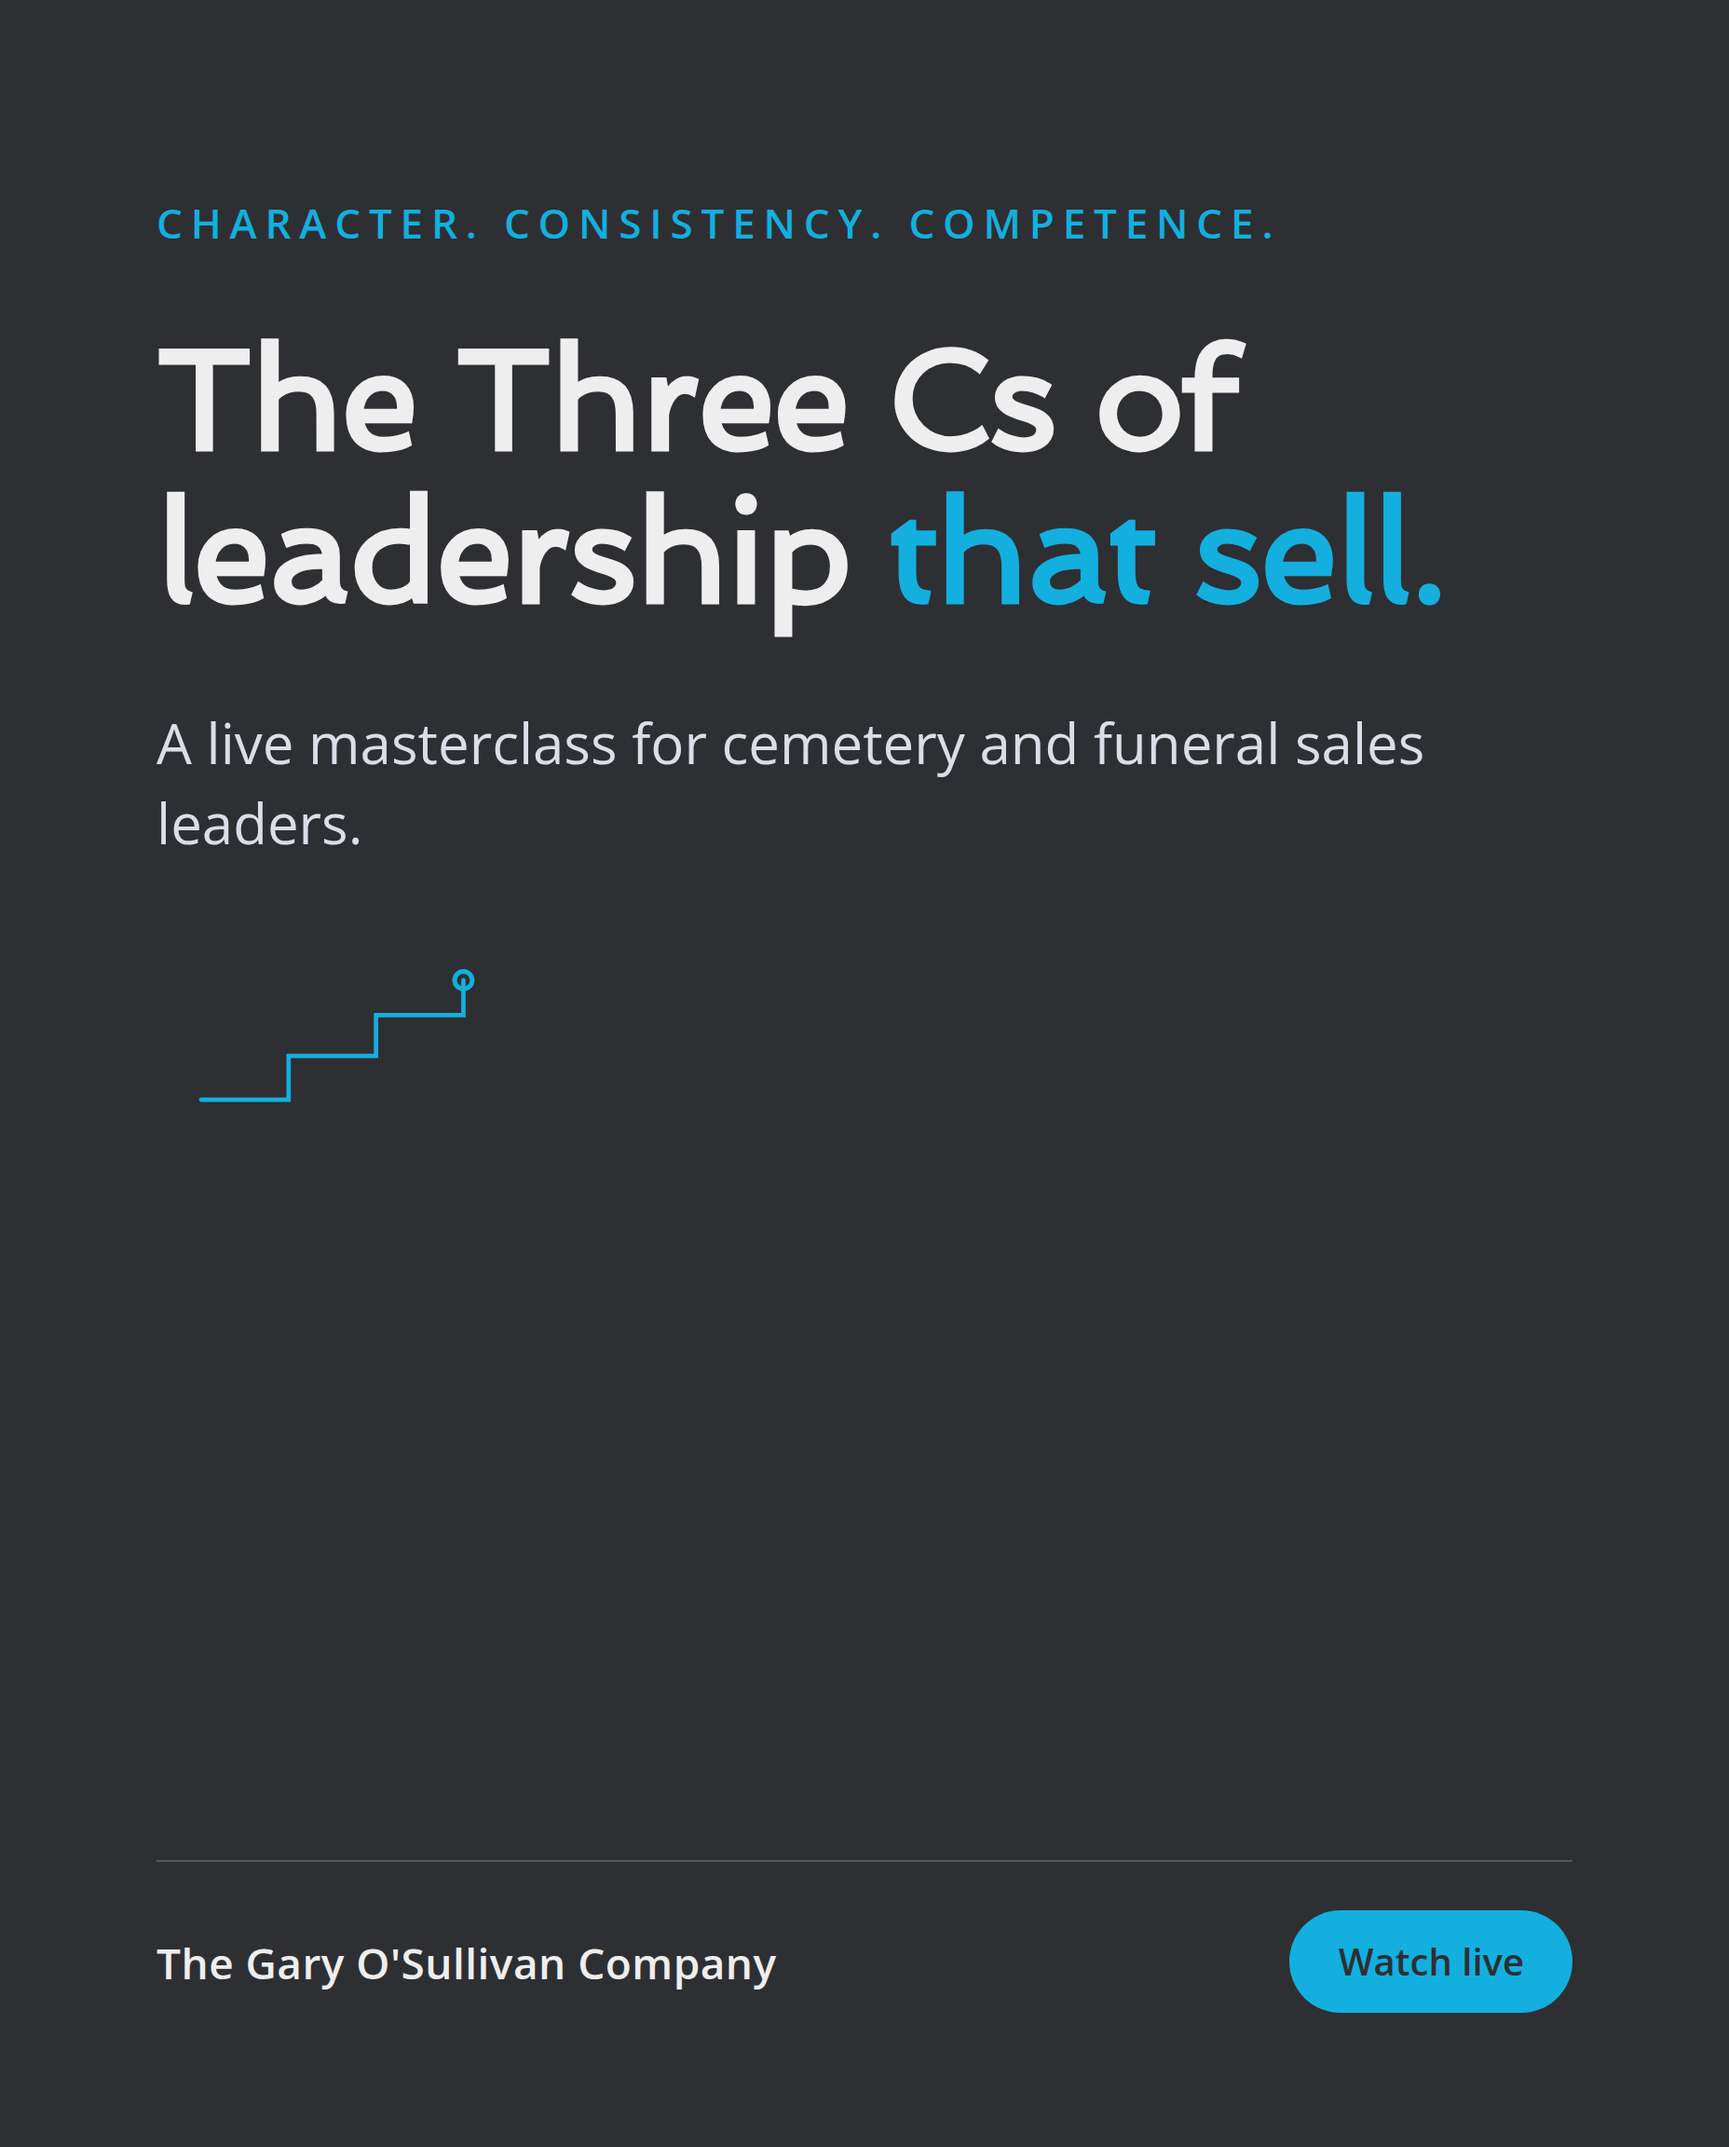
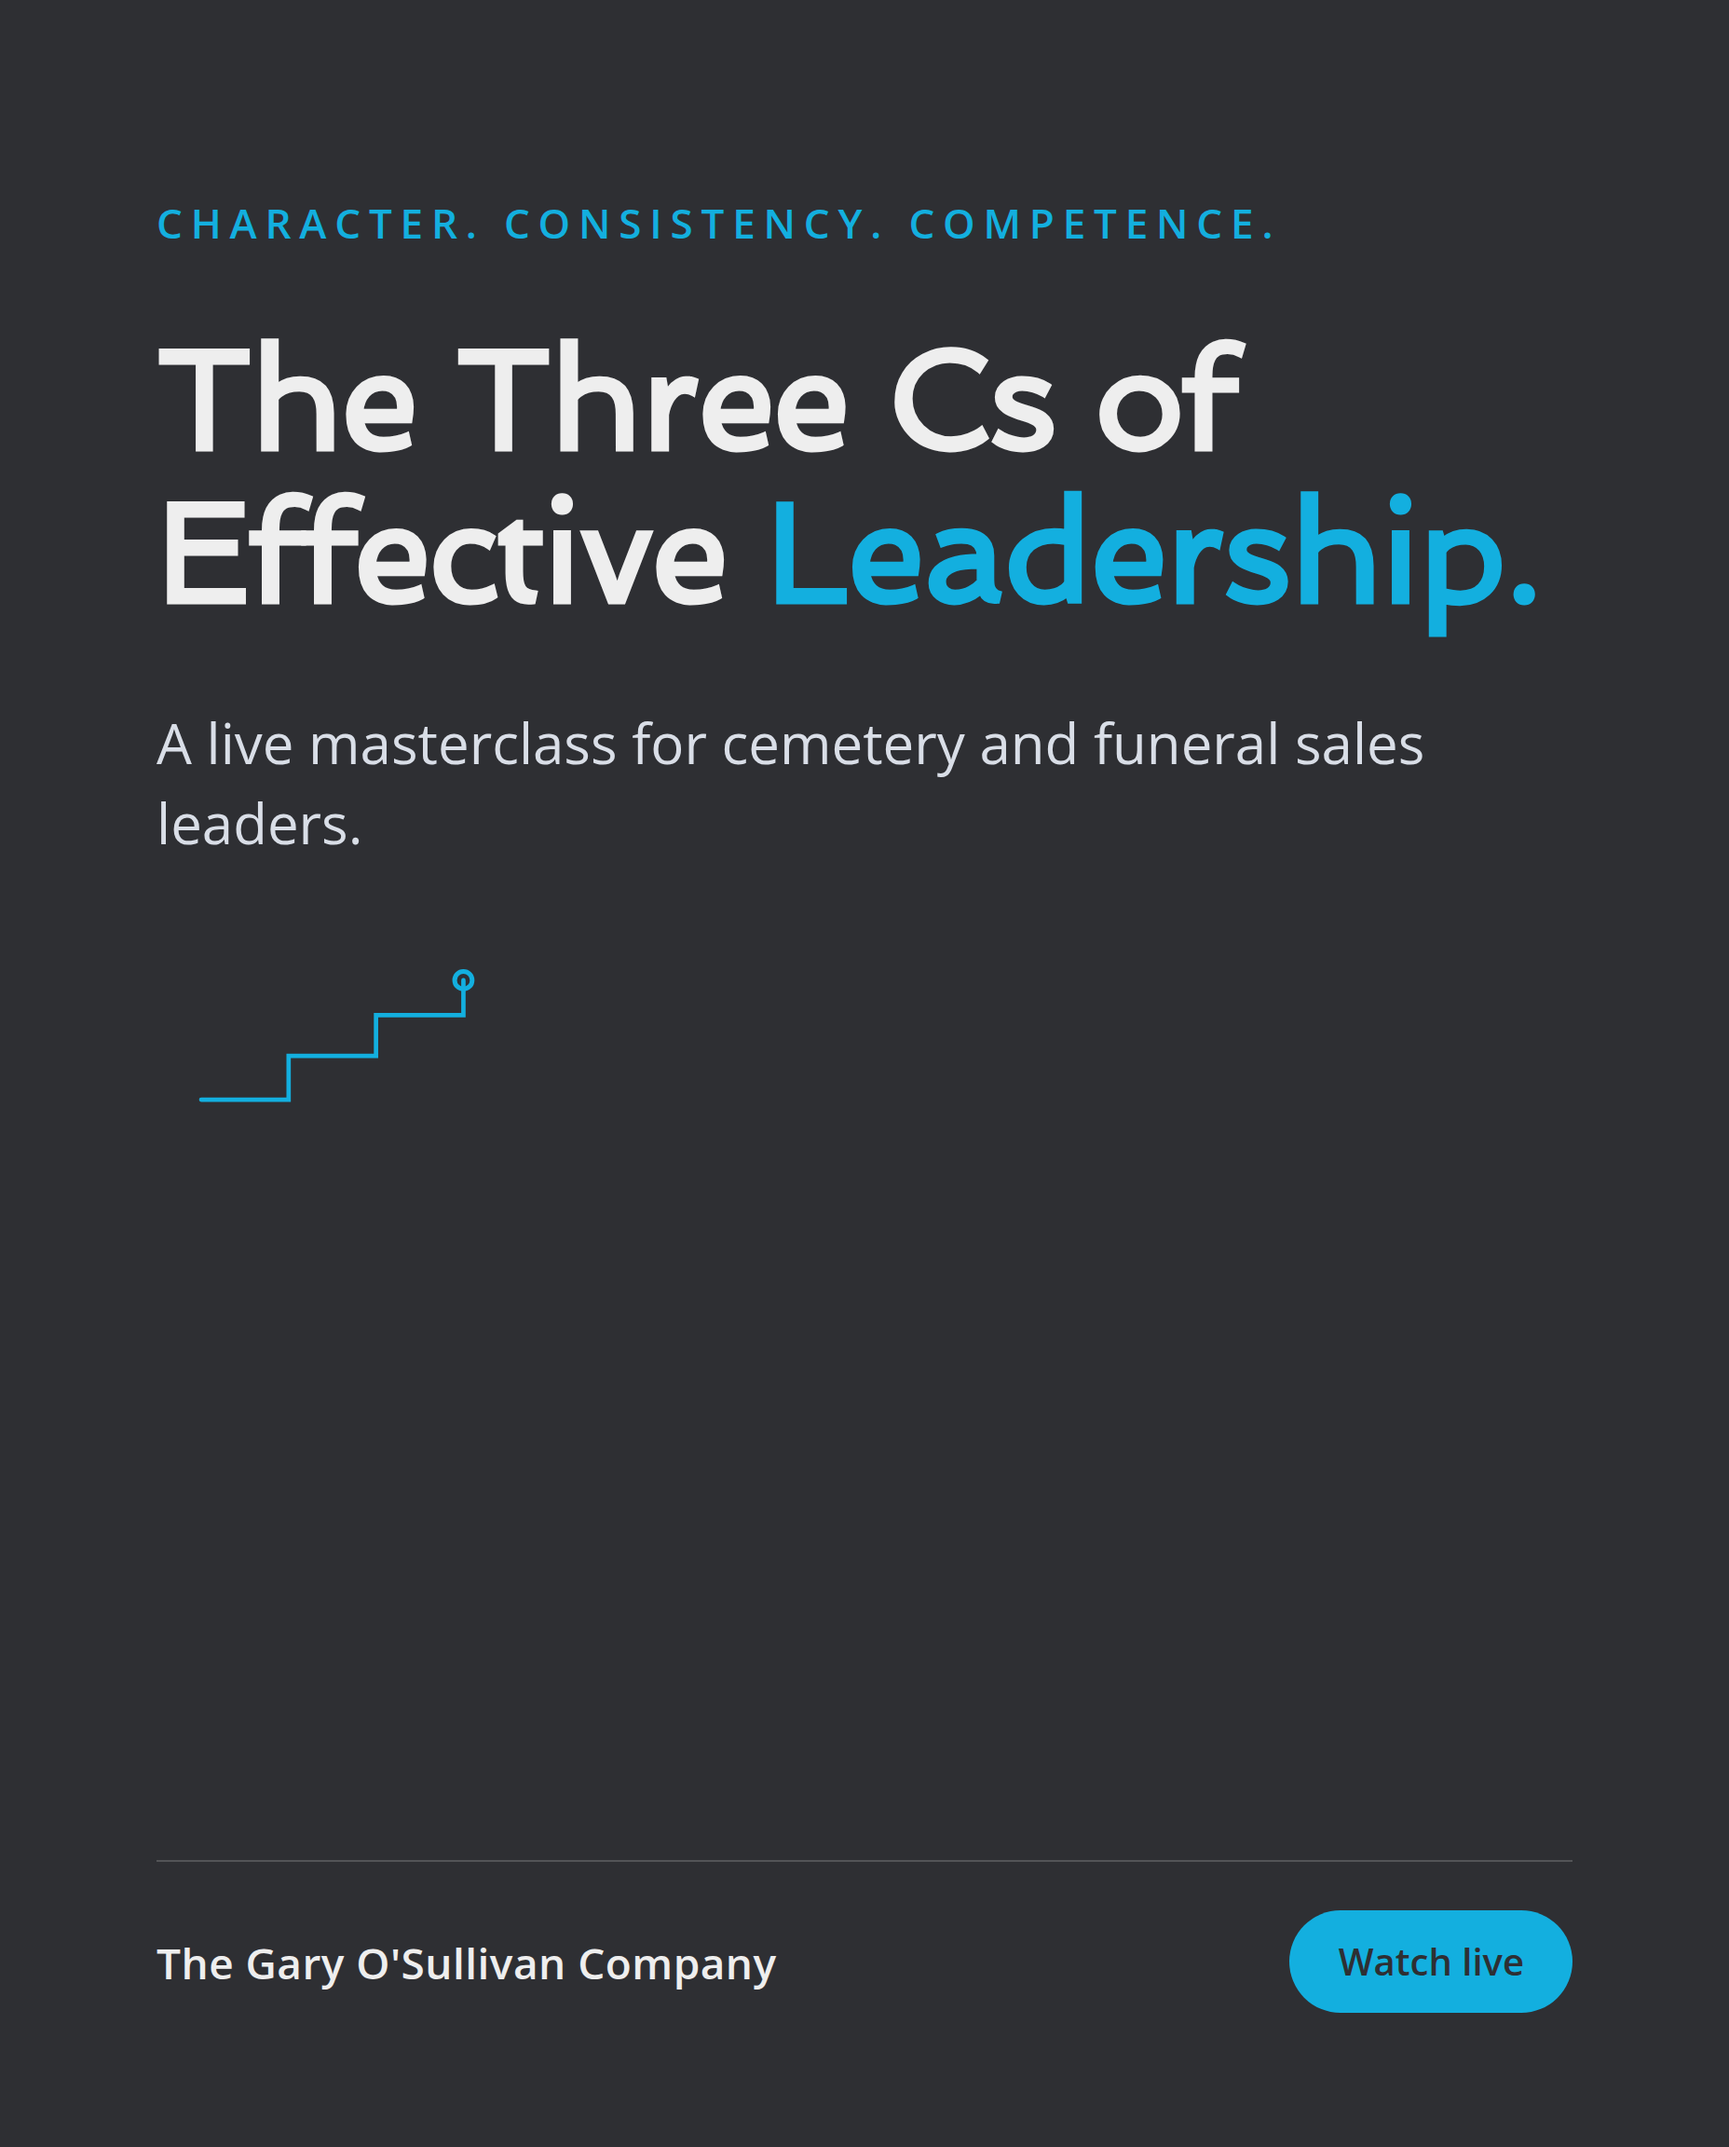
showcase: gary-osullivan

Changed region(s): [[0.0938, 0.2188, 0.9062, 0.3125]]

diff --git a/gary-osullivan/index.html b/gary-osullivan/index.html
@@ -81,42 +81,42 @@
   <div class="section">
     <div class="section-label">What the paid engine could produce</div>
     <h2>The numbers</h2>
-    <p>Estimates from coaching and consulting businesses running paid traffic into a live masterclass, scoped to a cemetery and funeral pre-need sales audience. I do not know your engagement price, so the revenue row uses a conservative industry benchmark for high-ticket sales coaching and consulting; your actual number would only make this stronger.</p>
+    <p>Estimates from coaching and consulting businesses running paid traffic into a live masterclass, scoped to a cemetery and funeral pre-need sales audience. I do not know your engagement price, so the revenue row uses a conservative industry benchmark for high-ticket sales coaching and consulting.</p>
     <table>
       <thead>
         <tr><th>Metric</th><th>Conservative</th><th>Moderate</th></tr>
       </thead>
       <tbody>
         <tr><td>Monthly ad spend</td><td>$1,500</td><td>$1,500</td></tr>
-        <tr><td>Cost per registration</td><td>$35</td><td>$20</td></tr>
-        <tr><td>Registrations / month</td><td>43</td><td>75</td></tr>
+        <tr><td>Cost per registration</td><td>$30</td><td>$20</td></tr>
+        <tr><td>Registrations / month</td><td>50</td><td>75</td></tr>
         <tr><td>Show rate</td><td>30%</td><td>40%</td></tr>
-        <tr><td>Masterclass viewers</td><td>13</td><td>30</td></tr>
-        <tr><td>Next-step rate</td><td>5%</td><td>8%</td></tr>
-        <tr><td>New engagements / month</td><td>1</td><td>2</td></tr>
+        <tr><td>Masterclass viewers</td><td>15</td><td>30</td></tr>
+        <tr><td>Next-step rate</td><td>7%</td><td>7%</td></tr>
+        <tr><td>New engagements / month</td><td>~1</td><td>~2</td></tr>
         <tr class="hl"><td>New revenue added each month</td><td>~$5,000 / mo</td><td>~$10,000 / mo</td></tr>
       </tbody>
     </table>
-    <p class="fn">The revenue row uses a conservative $5,000 benchmark for a single coaching or consulting engagement, since your actual price is not published. One new engagement a month covers the spend more than three times over, and your intake process, however selective it is today, stays exactly as it is.</p>
+    <p class="fn">Viewers times the next-step rate rounds to about one engagement a month in the conservative case and about two in the moderate case, each valued at the $5,000 benchmark above; your actual price would change the dollar figures but not the shape of the math. One new engagement a month covers the spend more than three times over, and your intake process, however selective it is today, stays exactly as it is.</p>
   </div>
 
   <div class="section">
-    <div class="section-label">Who is buying the sales team's attention</div>
+    <div class="section-label">Who is buying attention in this world</div>
     <h2>The auction, checked</h2>
-    <p>What the Meta auction around cemetery, funeral, and pre-need sales actually looks like this month.</p>
+    <p>What paid social around cemetery, funeral, and pre-need looks like right now.</p>
     <table>
       <thead>
-        <tr><th>Name</th><th>Lane</th><th>Active Meta ads</th></tr>
+        <tr><th>Name</th><th>Lane</th><th>Paid social investment</th></tr>
       </thead>
       <tbody>
-        <tr class="hl"><td>Ring Ring Marketing</td><td>"Facebook Ads for Preneed," sold to funeral homes</td><td class="running">Running a named campaign</td></tr>
-        <tr class="hl"><td>Funeral Directors Life</td><td>Preneed insurer, Facebook lead generation</td><td class="running">Hundreds of campaigns, its own fastest-growing lead source</td></tr>
+        <tr class="hl"><td>Ring Ring Marketing</td><td>"Facebook Ads for Preneed," sold to funeral homes</td><td class="running">A named, published product</td></tr>
+        <tr class="hl"><td>Funeral Directors Life</td><td>Preneed insurer, Facebook lead generation for funeral homes</td><td class="running">Publicly documented as a major lead source</td></tr>
         <tr><td>Funeral Innovations, DISRUPT Media, Funeral Success Marketing</td><td>Done-for-you Facebook management, sold to funeral homes</td><td class="running">Published case studies</td></tr>
         <tr><td>Coaches teaching pre-need sales psychology or leadership</td><td>Education for reps and sales managers</td><td class="not-running">None found</td></tr>
         <tr class="you"><td>Gary O'Sullivan / The Gary O'Sullivan Company</td><td>Sales, leadership, and culture training for cemetery and funeral</td><td class="not-running">Nothing live, as far as I can find</td></tr>
       </tbody>
     </table>
-    <p class="fn">The agencies above already prove that cemetery and funeral sales teams respond to paid social. What none of them do is teach the psychology of prospecting or the leader's role in the team's climate. That lane sits open, and the one piece missing is paid traffic into the masterclass above.</p>
+    <p class="fn">The agencies above prove that cemetery and funeral businesses already spend on paid social to reach their own customers. None of them teach the psychology of prospecting or the leader's role in a sales team's climate, and no coach doing that shows up running ads either. That lane sits open, and the one piece missing is paid traffic into the masterclass above.</p>
   </div>
 
   <div class="section">
@@ -127,7 +127,7 @@
       <img src="/gary-osullivan/ad01.png" alt="Static ad 1, The Power to Prospect">
       <img src="/gary-osullivan/ad02.png" alt="Static ad 2, Climate Control, thermostat and thermometer">
       <img src="/gary-osullivan/ad03.png" alt="Static ad 3, The Three Cs of leadership">
-      <img src="/gary-osullivan/ad04.png" alt="Static ad 4, 50 years on the sales floor">
+      <img src="/gary-osullivan/ad04.png" alt="Static ad 4, 50 years in cemetery and funeral sales">
     </div>
   </div>
 

diff --git a/gary-osullivan/deck.html b/gary-osullivan/deck.html
@@ -87,7 +87,7 @@ const S = [
 
  {t:'section',idx:'Part One',title:'Why Prospecting Stalls'},
  {t:'normal',k:'The real obstacle',title:'Destructive emotions do the damage, not a bad list.',body:'When a rep quietly avoids the phone, the cause is rarely the list of names in front of them. It is the emotion sitting underneath it: the sting of the last rejection, the story they told themselves about it, and a routine that stopped without anyone deciding to stop it.'},
- {t:'normal',k:'The hidden cost',title:'A team that avoids prospecting can only sell to who walks in.',body:'Revenue plateaus at whatever volume shows up on its own, and every slow month gets blamed on the market instead of the habit that actually slipped. Closing skill was never the problem. Nobody was in the room to close.'},
+ {t:'normal',k:'The hidden cost',title:'A team that avoids prospecting can only sell to whoever walks in.',body:'Revenue plateaus at whatever volume shows up unprompted, and every slow month gets blamed on the market instead of the habit that actually slipped. Closing skill was never the problem. Nobody was in the room to close.'},
  {t:'dark',title:'If you do not have people to see, then nothing else really matters.'},
 
  {t:'section',idx:'Part Two',title:'The Power to Prospect'},
@@ -102,12 +102,12 @@ const S = [
  {t:'normal',k:'The Three Cs',title:'Character. Consistency. Competence.',body:'Three foundations decide whether a leader can actually move that climate: who they are when no one is watching, whether they show up the same way every day, and whether they are good enough at the job to be believed when they ask for more.'},
  {t:'dark',title:'A team prospects the way its leader manages the climate around it.'},
 
- {t:'section',idx:'Why listen to me',title:'50 Years on the Sales Floor'},
+ {t:'section',idx:'Why listen to me',title:'50 Years in Cemetery and Funeral Sales'},
  {t:'normal',k:'The operator behind this',title:'Started selling cemetery property door to door in 1971.',body:'Sales rep, sales manager, regional manager, and Senior VP of Sales for a public company, across more than fifty years in the cemetery and funeral profession. Recognized by the ICCFA as Speaker of the Decade in 2000 and again in 2010, and co-creator of The System University, the profession’s own pre-need sales training program.'},
 
  {t:'section',idx:'Your next step',title:'Build It With Me'},
- {t:'normal',k:'How I can help',title:'Coaching, consulting, and training for sales teams and the leaders who run them.',body:'Through The Gary O’Sullivan Company I work one on one with leaders, run consulting engagements, and deliver seminars and workshops built around Power to Prospect, Climate Control, and the Three Cs of Effective Leadership.'},
- {t:'cta',title:'Ready to build a team that prospects on its own?',chips:['Talk to Gary','Explore coaching'],disc:'Educational content for cemetery and funeral pre-need sales professionals and leaders. No income, sales, or business result is guaranteed. Results vary by individual, team, and market.'},
+ {t:'normal',k:'How I can help',title:'Coaching, consulting, and training for sales teams and the leaders who run them.',body:'Through The Gary O\'Sullivan Company I work one on one with leaders, run consulting engagements, and deliver seminars and workshops built around Power to Prospect, Climate Control, and the Three Cs of Effective Leadership.'},
+ {t:'cta',title:'Ready to build a team that prospects with confidence?',chips:['Talk to Gary','Explore coaching'],disc:'Educational content for cemetery and funeral pre-need sales professionals and leaders. No income, sales, or business result is guaranteed. Results vary by individual, team, and market.'},
 ];
 
 const deck=document.getElementById('deck');
